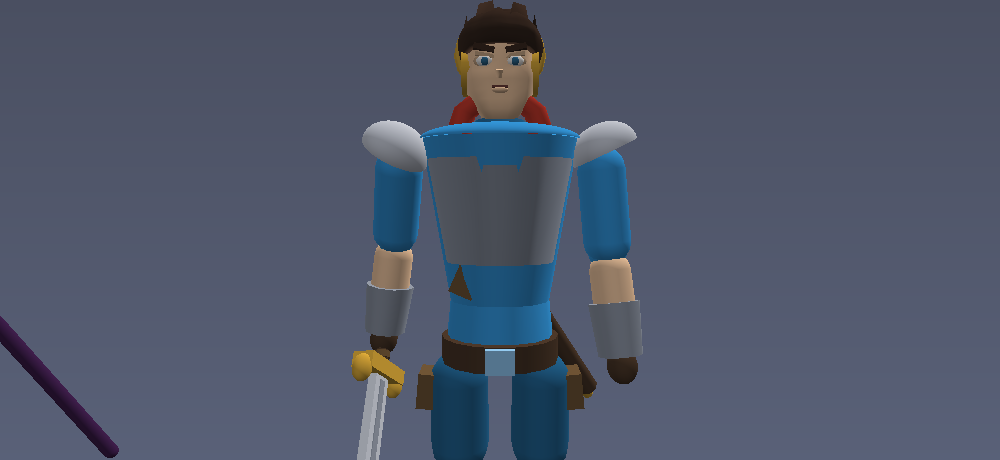
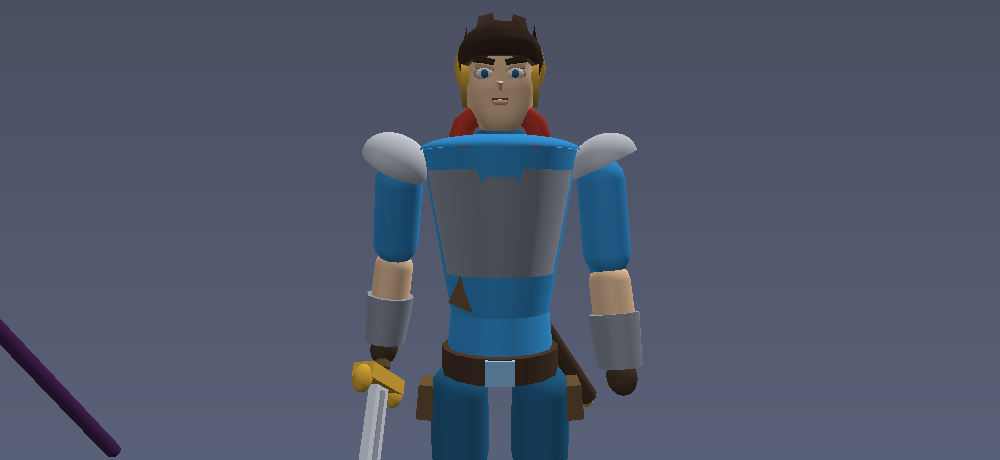
Рюкзак между лопаток: больше не просвечивает в области живота
Мешок висел на уровне живота (y 1.79..2.23) и выступал за спину на 0.12.
Рюкзак обязан выступать — иначе его не видно со спины, — но на уровне
пояса корпус узкий, и этот выступ выглядывал сбоку под углом ~40
градусов: читалось как «рюкзак просвечивает через живот». Поднят между
лопаток, где корпус шире и силуэт его закрывает.

Тест ловил не тот случай: он светил лучами с УРОВНЯ ГЛАЗ и только с трёх
фронтальных ракурсов, а камера боя смотрит СВЕРХУ под 30 градусов и
вращается вокруг арены. Теперь проверяются девять ракурсов от -90 до +90
и зона живота/пояса. Мутация «вернуть рюкзак на живот» роняет тест.

Ракурсы со спины в проверку не входят намеренно: там мешок обязан быть
виден.

diff --git a/src/render/models.js b/src/render/models.js
@@ -207,18 +207,23 @@ export function createHumanoid(scene, { id, color = '#3498db', weapon = 'sword',
         // Мешок сидит НИЖЕ линии плеч и уже корпуса: раньше он вместе со
         // скаткой и клапаном выглядывал из-за плеч на ракурсе 3/4, и это
         // читалось как рюкзак, надетый задом наперёд.
+        // Мешок сидит МЕЖДУ ЛОПАТОК, а не на пояснице. Рюкзак обязан
+        // выступать за спину (иначе его не видно со спины), но на уровне
+        // живота этот выступ выглядывал сбоку от корпуса под углом ~40° —
+        // читалось как «рюкзак просвечивает через живот». На высоте лопаток
+        // корпус шире, и тот же выступ остаётся закрыт силуэтом.
         const pack = track(MeshBuilder.CreateBox(`${id}_pack`, {
-            width: 0.34, height: 0.44, depth: 0.14,
+            width: 0.34, height: 0.34, depth: 0.14,
         }, scene));
         pack.parent = torso;
-        pack.position.set(0, 0.56, -0.27);
+        pack.position.set(0, 0.86, -0.26);
         pack.material = packMat;
 
         const packFlap = track(MeshBuilder.CreateBox(`${id}_packFlap`, {
-            width: 0.36, height: 0.14, depth: 0.16,
+            width: 0.36, height: 0.12, depth: 0.16,
         }, scene));
         packFlap.parent = torso;
-        packFlap.position.set(0, 0.72, -0.27);
+        packFlap.position.set(0, 1.0, -0.26);
         packFlap.material = leather;
 
         // Скатка лежит на клапане, а не над плечами.
@@ -226,17 +231,17 @@ export function createHumanoid(scene, { id, color = '#3498db', weapon = 'sword',
             height: 0.36, diameter: 0.12, tessellation: 10,
         }, scene));
         bedroll.parent = torso;
-        bedroll.position.set(0, 0.8, -0.27);
+        bedroll.position.set(0, 1.07, -0.26);
         bedroll.rotation.z = Math.PI / 2;
         bedroll.material = scarfMat;
 
         // Лямки идут по спине вплотную к корпусу, а не по бокам.
         for (const side of [-1, 1]) {
             const packStrap = track(MeshBuilder.CreateBox(`${id}_packStrap${side}`, {
-                width: 0.08, height: 0.6, depth: 0.05,
+                width: 0.08, height: 0.42, depth: 0.05,
             }, scene));
             packStrap.parent = torso;
-            packStrap.position.set(0.15 * side, 0.6, -0.22);
+            packStrap.position.set(0.15 * side, 0.86, -0.21);
             packStrap.rotation.x = -0.12;
             packStrap.material = leather;
         }
